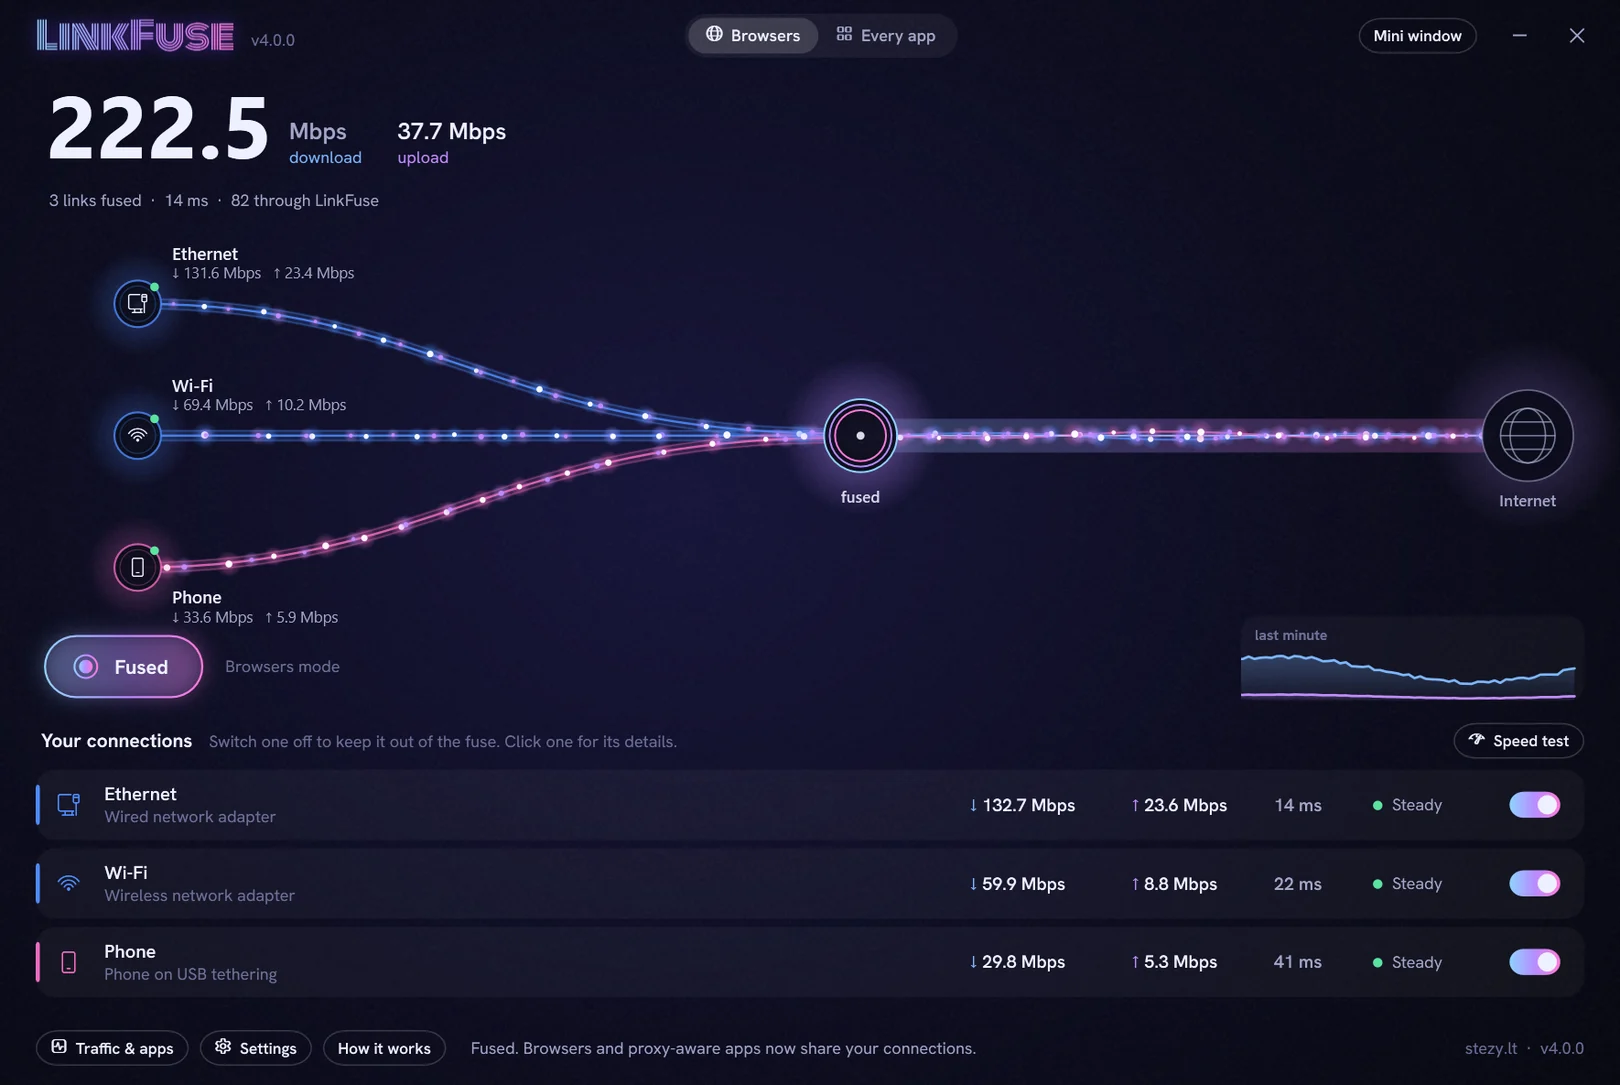
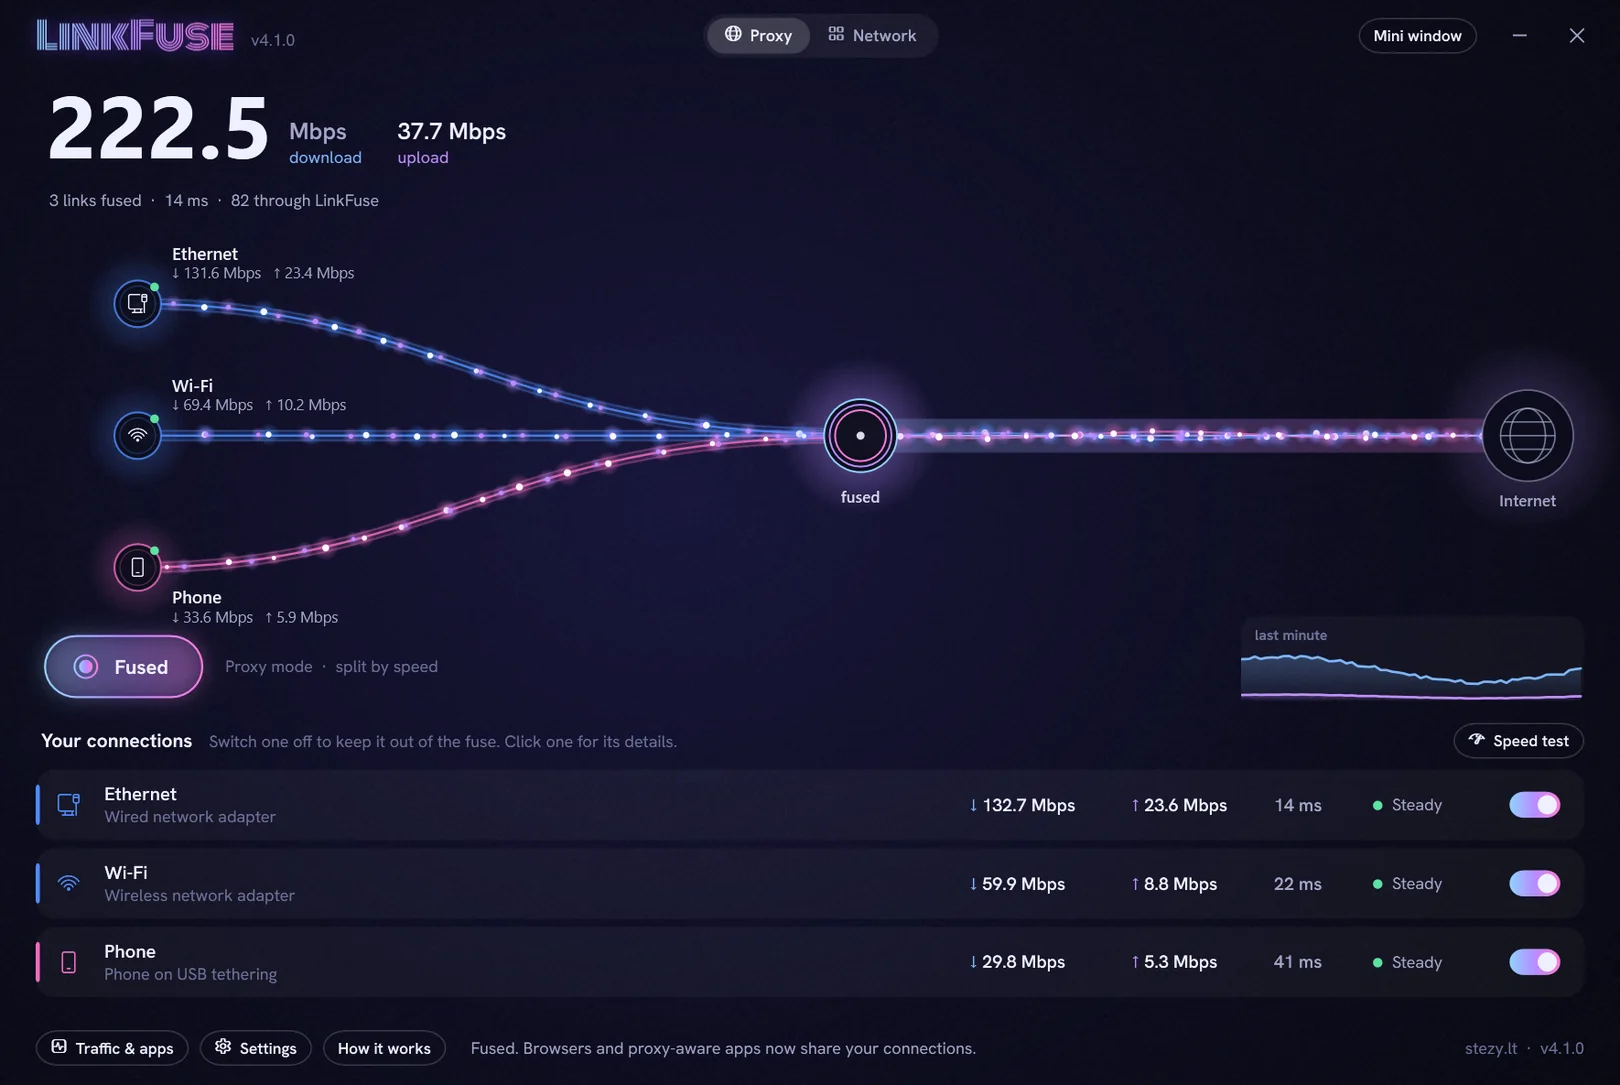
LinkFuse 4.1 on the site: new download, sharing choices, Proxy and Network names, new shots

diff --git a/prototype/index.html b/prototype/index.html
@@ -1616,15 +1616,15 @@
       sparks: [[18, 26, 22, '3.6s', '0s'], [78, 22, 28, '4.4s', '1.2s'], [70, 64, 18, '3.2s', '2s'], [28, 62, 14, '5s', '.6s'], [50, 16, 12, '4s', '2.6s']]
     },
     {
[2 lines of base64/hex data omitted]
       title: 't-fuse', layout: 'at-left', page: '#06070E', accent: '#C9B4FF',
       font: "'Monoton', sans-serif", titleCss: 'font-size:clamp(34px,4.2vw,60px);',
       note: 'Every connection you have, working as one.',
       blurb: 'Fuses your Ethernet, Wi-Fi and phone into one faster, steadier connection.',
-      lede: "LinkFuse spreads what your PC does across every internet connection it has: Ethernet, Wi-Fi, a phone on USB. They add up, and if one drops the others carry on. Version 4 is a full rebuild with a new look, and its Every app mode now really works, so games and launchers get fused too, not just your browser. It tests its own network before keeping it and steps aside by itself if anything goes wrong. It all runs on your PC: no accounts, no servers.",
-      how: ['Download the zip, unzip it and open LinkFuse.exe.', 'Press Fuse my connections. Your browsers are fused straight away, no admin needed.', 'For games and everything else, pick Every app at the top and restart it as admin.'],
-      shots: ['img/linkfuse/main.webp', 'img/linkfuse/traffic.webp', 'img/linkfuse/link.webp'],
-      version: '4.0.0', size: '70 MB', updated: '11 Oct 2026', web: false,
+      lede: "LinkFuse spreads what your PC does across every internet connection it has: Ethernet, Wi-Fi, a phone on USB. They add up, and if one drops the others carry on. Proxy mode fuses your browsers with no admin needed, and Network mode fuses every app, games and launchers included. You choose how connections are shared: split by speed, take turns, one main link with the others as backup, or whichever link has the lowest ping. It tests its own network before keeping it and steps aside by itself if anything goes wrong. It all runs on your PC: no accounts, no servers.",
+      how: ['Download the zip, unzip it and open LinkFuse.exe.', 'Press Fuse my connections. In Proxy mode your browsers are fused straight away, no admin needed.', 'For games and everything else, pick Network at the top and restart it as admin.', 'In Settings, pick how connections are shared: by speed, taking turns, main + backup, or lowest ping.'],
+      shots: ['img/linkfuse/main.webp', 'img/linkfuse/settings.webp', 'img/linkfuse/link.webp'],
+      version: '4.1.0', size: '70 MB', updated: '11 Oct 2026', web: false,
       sparks: [[64, 30, 26, '3.8s', '.4s'], [86, 52, 16, '4.6s', '1.8s'], [40, 40, 12, '5.2s', '3s']]
     },
     {
